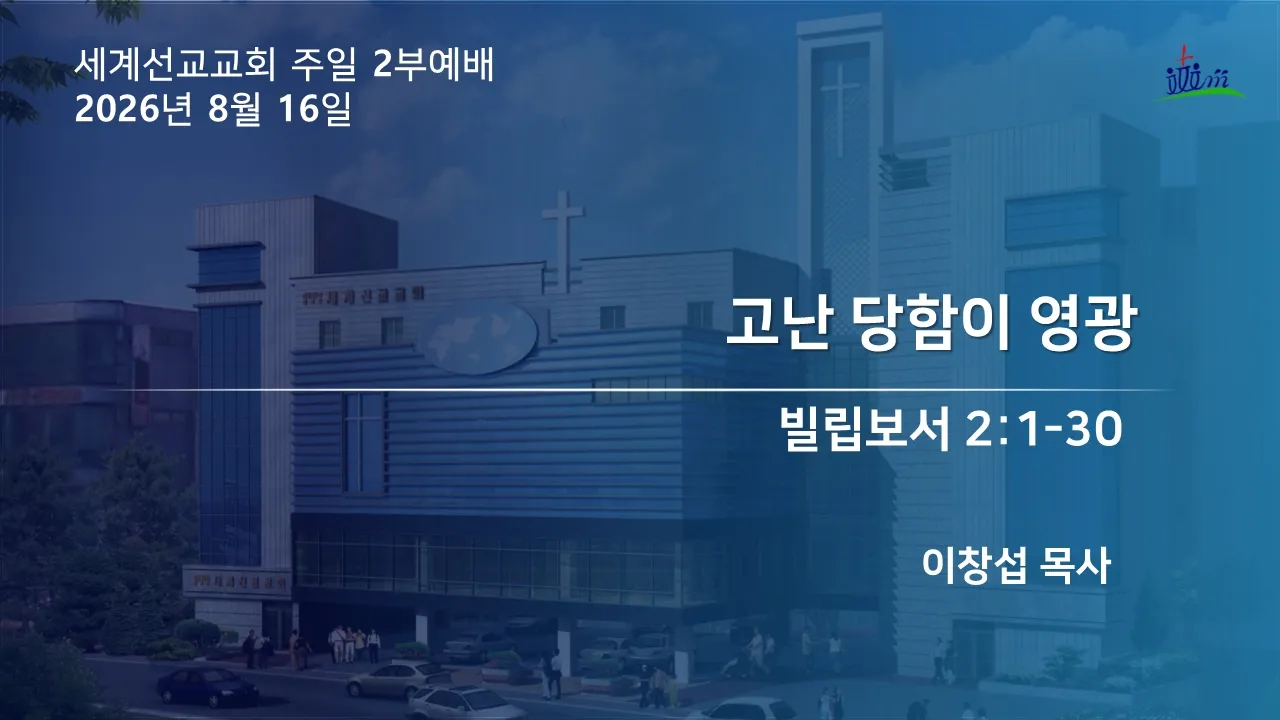
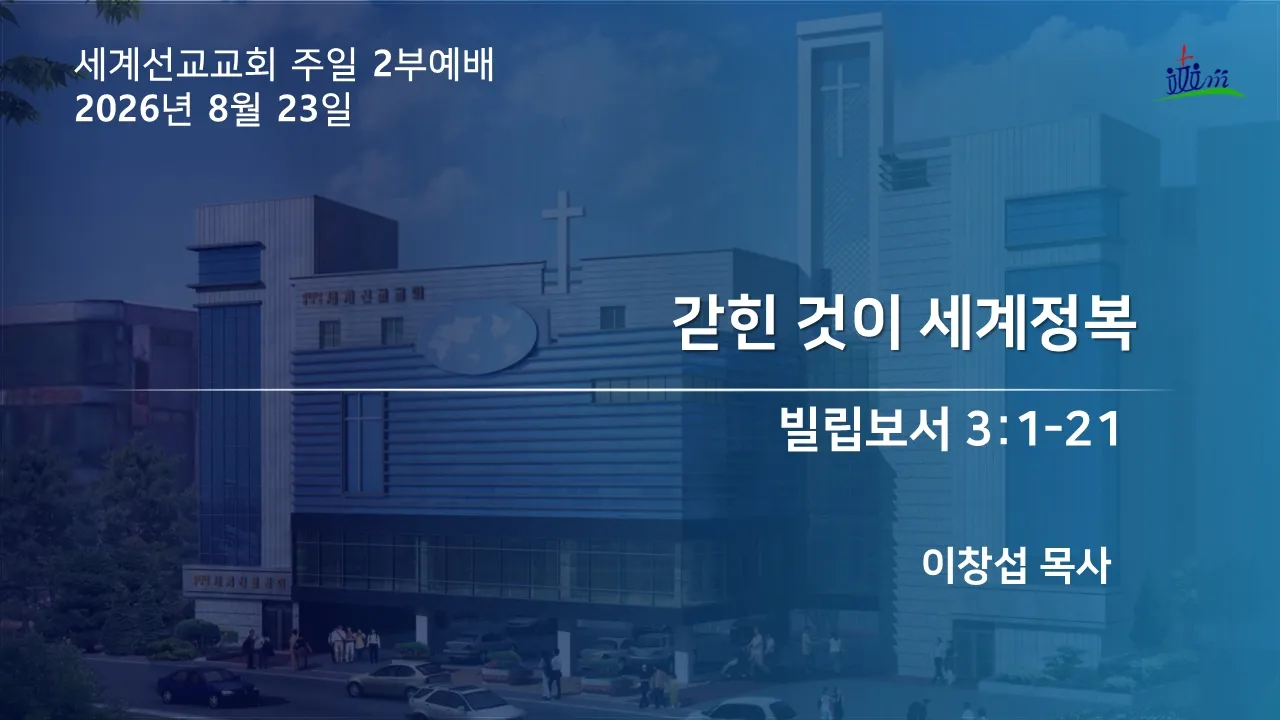
Keep the sermon archive aligned with the official channel
Constraint: Publish only official metadata that parses without warnings

Confidence: high

Scope-risk: narrow

Directive: Leave incomplete or ambiguous videos for manual review

Tested: npm run youtube:test

Not-tested: Live rendering is handled by the deploy workflow

diff --git a/site/src/content/sermons/2026-08-23-XyDft5wTQm0.md b/site/src/content/sermons/2026-08-23-XyDft5wTQm0.md
@@ -1,0 +1,10 @@
+---
+title: "갇힌 것이 세계정복"
+date: 2026-08-23
+scripture: "빌립보서 3:1–21"
+scriptureShort: "빌 3"
+preacher: "이창섭 목사"
+youtube: "https://www.youtube.com/watch?v=XyDft5wTQm0"
+---
+
+주일예배 말씀입니다.
